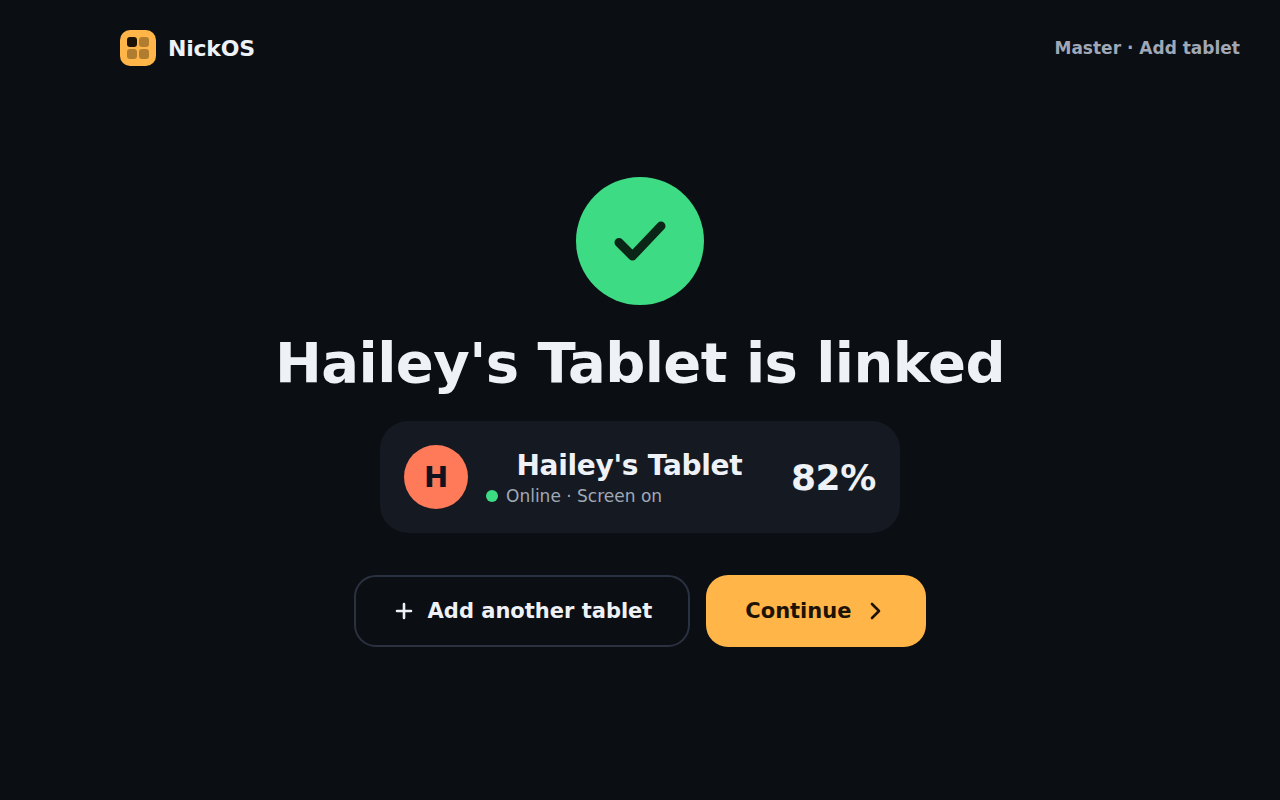
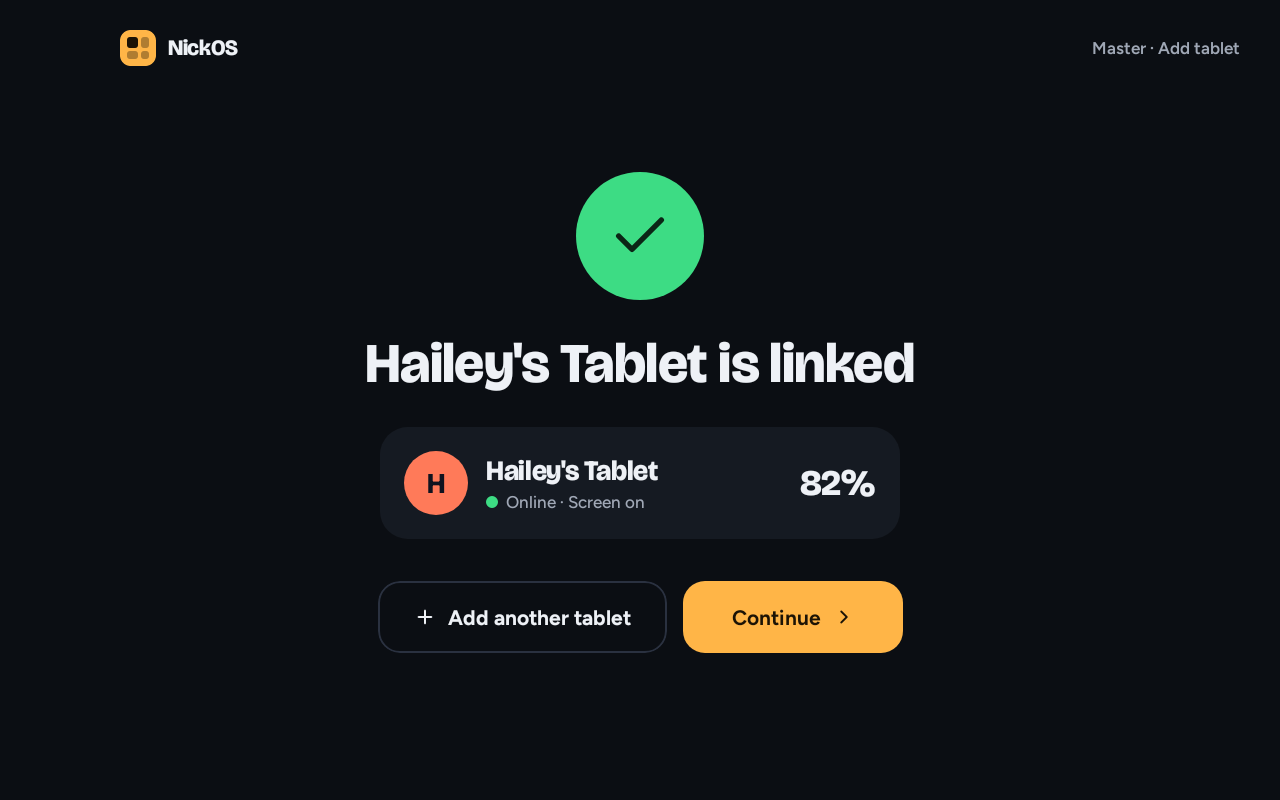
screenshot tests for the six designed screens that had none, designer originals kept in design/handoff

diff --git a/app/src/test/java/com/nbaltas/nickos/DesignScreensTest.kt b/app/src/test/java/com/nbaltas/nickos/DesignScreensTest.kt
@@ -11,6 +11,10 @@ import androidx.compose.foundation.background
 import androidx.compose.foundation.layout.Box
 import androidx.compose.foundation.layout.fillMaxSize
 import androidx.compose.runtime.Composable
+import androidx.compose.ui.test.hasClickAction
+import androidx.compose.ui.test.hasText
+import androidx.compose.ui.test.onRoot
+import androidx.compose.ui.test.performClick
 import androidx.compose.ui.Modifier
 import androidx.test.core.app.ApplicationProvider
 import com.github.takahirom.roborazzi.RoborazziOptions
@@ -418,4 +422,137 @@ class DesignScreensTest {
     @Test fun nodePin() { nodeSeed(); shot("Node-PIN") { kidHome(); PinPad("1234", {}, {}) } }
     @Test fun nodeLocked() { nodeSeed(); shot("Node-Locked") { LockedScreen(app.store, "Dad's Tablet") } }
     @Test fun nodeBedtime() { nodeSeed(); shot("Node-Bedtime") { kidHome(); BedtimeToast(300) } }
+
+    // ---- brief D: the six designed screens that had no picture (Control-Watch, Control-Movie, Control-Series,
+    //      Master-Jellyfin, Master-Linked, Node-Code). Appended; the designer's originals are kept in design/handoff. ----
+
+    @Test fun masterJellyfin() = shot("Master-Jellyfin") { com.nbaltas.nickos.ui.setup.JellyfinSetupScreen({}, {}) }
+
+    @Test fun masterLinked() {
+        val node = app.store.nodes.value.first { it.id == "aaaaaaaaaaaa" }
+        val result = MasterRuntime.PairResult(node, status(82, fg = null, fgLabel = null))
+        shot("Master-Linked") { com.nbaltas.nickos.ui.setup.LinkedScreen(result, {}, {}) }
+    }
+
+    /** NodeCodeScreen starts the node service and draws a random code, so this lays out its two parts with a fixed code. */
+    @Test fun nodeCode() {
+        app.store.setName("Hailey's Tablet"); app.store.setColor(0)
+        shot("Node-Code") {
+            androidx.compose.foundation.layout.Column(Modifier.fillMaxSize()) {
+                com.nbaltas.nickos.ui.theme.SetupHeader("Node · Step 3 of 3", {})
+                com.nbaltas.nickos.ui.setup.PairingCodeBody("Hailey's Tablet", 0, app.store.avatar.value, "482916")
+            }
+        }
+    }
+
+    // A tiny Jellyfin on 127.0.0.1 so the three Jellyfin screens render real rows. No image URLs are offered, so
+    // every poster is the app's own gradient artwork and nothing leaves the machine.
+    private fun jfJson(
+        id: String, name: String, type: String, run: Long = 0, pos: Long = 0, played: Boolean = false,
+        series: String? = null, seriesName: String? = null, season: Int? = null, index: Int? = null,
+        seasonId: String? = null, overview: String? = null, rating: String? = null, year: Int? = null,
+    ): String {
+        val o = org.json.JSONObject().put("Id", id).put("Name", name).put("Type", type)
+        if (run > 0) o.put("RunTimeTicks", run * JfItem.TICKS_PER_SEC)
+        o.put("UserData", org.json.JSONObject().put("PlaybackPositionTicks", pos * JfItem.TICKS_PER_SEC).put("Played", played))
+        series?.let { o.put("SeriesId", it) }; seriesName?.let { o.put("SeriesName", it) }
+        season?.let { o.put("ParentIndexNumber", it) }; index?.let { o.put("IndexNumber", it) }
+        seasonId?.let { o.put("SeasonId", it) }; overview?.let { o.put("Overview", it) }
+        rating?.let { o.put("OfficialRating", it) }; year?.let { o.put("ProductionYear", it) }
+        return o.toString()
+    }
+
+    private fun fakeJellyfin(): java.net.ServerSocket {
+        val min = 60L
+        val resume = listOf(
+            jfJson("e25", "The Lighthouse", "Episode", 24 * min + 10, 18 * min + 2, series = "sh", seriesName = "Star Harbour", season = 2, index = 5, seasonId = "s2"),
+            jfJson("cc", "Captain Comet", "Movie", 92 * min, 51 * min + 10, overview = "A small-town kid finds a comet in the backyard and has one night to send it home.", rating = "G"),
+            jfJson("mp3", "The Fog Bell", "Episode", 22 * min, 10 * min, series = "mp", seriesName = "Moss & Pebble", season = 1, index = 3, seasonId = "mps1"),
+            jfJson("sf", "The Snow Fox", "Movie", 80 * min, 18 * min),
+            jfJson("rp", "Robo Pals", "Episode", 22 * min, 3 * min, series = "rps", seriesName = "Robo Pals", season = 3, index = 1, seasonId = "rp3"),
+        )
+        val nextUp = listOf(
+            jfJson("lv4", "Night Market", "Episode", 24 * min, series = "lv", seriesName = "Lantern Valley", season = 1, index = 4, seasonId = "lv1"),
+            jfJson("dd1", "Bones!", "Episode", 24 * min, series = "dd", seriesName = "Dino Dig Crew", season = 2, index = 1, seasonId = "dd2"),
+            jfJson("oe9", "The Reef", "Episode", 24 * min, series = "oe", seriesName = "Ocean Explorers", season = 1, index = 9, seasonId = "oe1"),
+            jfJson("wk2", "Pancakes", "Episode", 24 * min, series = "wk", seriesName = "Wild Kitchen", season = 1, index = 2, seasonId = "wk1"),
+            jfJson("tt7", "Big Surprise", "Episode", 24 * min, series = "tt", seriesName = "Tiny Tugboat", season = 1, index = 7, seasonId = "tt1"),
+        )
+        val movies = listOf(
+            jfJson("cc", "Captain Comet", "Movie", 92 * min, 51 * min + 10, year = 2021),
+            jfJson("sf", "The Snow Fox", "Movie", 80 * min, 18 * min, year = 2019),
+            jfJson("mm", "Moon Mice", "Movie", 76 * min, year = 2022),
+        )
+        val shows = listOf(jfJson("sh", "Star Harbour", "Series", year = 2020), jfJson("mp", "Moss & Pebble", "Series", year = 2018))
+        val episodes = listOf(
+            jfJson("e21", "Welcome Aboard", "Episode", 23 * min, 23 * min, true, "sh", "Star Harbour", 2, 1, "s2"),
+            jfJson("e22", "Seagull Trouble", "Episode", 24 * min, 24 * min, true, "sh", "Star Harbour", 2, 2, "s2"),
+            jfJson("e23", "The Night Crossing", "Episode", 22 * min, 22 * min, true, "sh", "Star Harbour", 2, 3, "s2"),
+            jfJson("e24", "Treasure Buoy", "Episode", 24 * min, 24 * min, true, "sh", "Star Harbour", 2, 4, "s2"),
+            resume[0],
+            jfJson("e26", "Fog Horn", "Episode", 23 * min, 0, false, "sh", "Star Harbour", 2, 6, "s2"),
+        )
+        val series = jfJson("sh", "Star Harbour", "Series", rating = "G", overview = "A little tugboat crew keeps the harbour lights on for every ship that comes home.")
+        val seasons = listOf(jfJson("s1", "Season 1", "Season"), jfJson("s2", "Season 2", "Season"))
+        fun arr(l: List<String>) = "{\"Items\":[" + l.joinToString(",") + "]}"
+        val byId = (resume + nextUp + movies + episodes).associateBy { org.json.JSONObject(it).getString("Id") } + ("sh" to series)
+
+        val server = java.net.ServerSocket(0, 50, java.net.InetAddress.getLoopbackAddress())
+        Thread {
+            while (!server.isClosed) {
+                val sock = try { server.accept() } catch (e: Exception) { break }
+                Thread {
+                    sock.use {
+                        val reader = it.getInputStream().bufferedReader()
+                        val target = reader.readLine()?.split(" ")?.getOrNull(1) ?: return@use
+                        while (reader.readLine()?.isNotEmpty() == true) { /* skip the headers */ }
+                        val path = target.substringBefore('?'); val q = target.substringAfter('?', "")
+                        val body = when {
+                            path == "/Users/u1/Items/Resume" -> arr(if ("ParentId=" in q) listOf(resume[0]) else resume)
+                            path == "/Shows/NextUp" -> arr(nextUp)
+                            path == "/Users/u1/Items" -> arr(if ("IncludeItemTypes=Series" in q) shows else movies)
+                            path.startsWith("/Users/u1/Items/") -> byId[path.substringAfterLast('/')]
+                            path.endsWith("/Seasons") -> arr(seasons)
+                            path.endsWith("/Episodes") -> arr(episodes)
+                            else -> null
+                        }
+                        val bytes = (body ?: "").toByteArray()
+                        val head = (if (body == null) "HTTP/1.1 404 Not Found" else "HTTP/1.1 200 OK") +
+                            "\r\nContent-Type: application/json\r\nContent-Length: ${bytes.size}\r\nConnection: close\r\n\r\n"
+                        it.getOutputStream().apply { write(head.toByteArray()); write(bytes); flush() }
+                    }
+                }.start()
+            }
+        }.apply { isDaemon = true }.start()
+        return server
+    }
+
+    /** Runs the Control screen's Watch tab against [fakeJellyfin], opens the Jellyfin library, optionally taps [open], and saves the picture. */
+    @OptIn(androidx.compose.ui.test.ExperimentalTestApi::class)
+    private fun jellyfinShot(name: String, open: String?, waitFor: String) {
+        val server = fakeJellyfin()
+        try {
+            app.store.setJellyfin(JellyfinAccount("http://127.0.0.1:${server.localPort}", "dad", "tok", "u1", true))
+            app.store.upsertNode(app.store.nodes.value.first { it.id == "aaaaaaaaaaaa" }.copy(jfUserId = "u1", jfUserName = "Hailey"))
+            androidx.compose.ui.test.runAndroidComposeUiTest<androidx.activity.ComponentActivity> {
+                setContent { NickTheme { Box(Modifier.fillMaxSize().background(C.bg)) { ControlScreen("aaaaaaaaaaaa", TAB_WATCH, {}, {}, {}) } } }
+                onNode(hasText("Jellyfin", substring = true) and hasClickAction()).performClick()
+                fun has(t: String) = onAllNodes(hasText(t, substring = true)).fetchSemanticsNodes().isNotEmpty()
+                waitUntil(timeoutMillis = 20_000) { has("Continue Watching") }
+                if (open != null) {
+                    onAllNodes(hasText(open))[0].performClick()
+                    waitUntil(timeoutMillis = 20_000) { has(waitFor) }
+                }
+                waitForIdle()
+                onRoot().captureRoboImage(
+                    "../design/screens/$name.png",
+                    roborazziOptions = RoborazziOptions(compareOptions = RoborazziOptions.CompareOptions(changeThreshold = CHANGE_THRESHOLD)),
+                )
+            }
+        } finally { server.close() }
+    }
+
+    @Test fun controlWatch() = jellyfinShot("Control-Watch", null, "Continue Watching")
+    @Test fun controlMovie() = jellyfinShot("Control-Movie", "Captain Comet", "Play from start")
+    @Test fun controlSeries() = jellyfinShot("Control-Series", "Star Harbour", "Fog Horn")
 }
